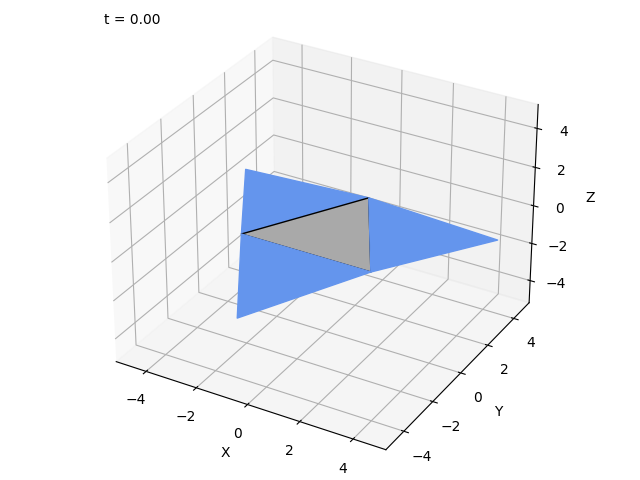
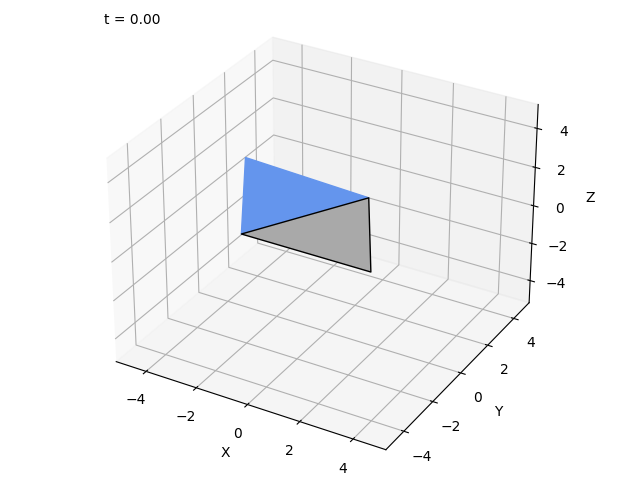
Fully working, angles fixed

Changed region(s): [[0.3438, 0.4062, 0.7812, 0.6562], [0.375, 0.3125, 0.5625, 0.4062]]

diff --git a/fourth/main.py b/fourth/main.py
@@ -38,20 +38,27 @@ def get_MOI_triangle(l, rho):
 
 
 def calc_torque(panel, force, bus):
-    force_z = mech.dot(force, bus.y) * sp.cos(get_angle(panel.frame, bus))
+
+    # If panel has gone beyond the direction of the bus, it's completely in the shadow.
+    if get_angle(panel.frame, bus) < - sp.pi /2:
+        force_z = 0
+    else:
+        #force_z = mech.dot(force, bus.y) * sp.cos(get_angle(panel.frame, bus)) ** 2
+        force_z = (sp.cos(get_angle(panel.frame, bus))*force.magnitude())
+    # If the light hits on the front of the panel, use state to determine a coefficient of reflection.
     if force_z > 0:
-        force_z = force_z * (1+panel.state)  # if the light hits on the front of the panel, use state to determine a coefficient of reflection.
+        force_z = force_z * (1+panel.state)  
     #force_z = mech.dot(force, panel.frame.y).evalf()
     torque_zz = - panel.dimensions[0]*3**(1/2)/6 * force_z
     panel.torque = 0*panel.frame.y + 0*panel.frame.x + torque_zz*panel.frame.z
     return force_z
 
 def main():
-    theta_zero = 30/180 * sp.pi#10/180 * sp.pi
+    theta_zero = 100/180 * sp.pi#10/180 * sp.pi
     bus = sun.orientnew("bus", "Axis", [angle_to_sun, sun.z])
     order = [bus]
 
-    # MANUAL GENERATION FOR TWO PANELS.
+    # MANUAL GENERATION FOR PANELS.
     
     panel_ors["1"] = Panel(
         dimensions=5,
@@ -59,11 +66,11 @@ def main():
         state = 0
         )
     order.append(panel_ors["1"].frame)
-    
+    '''
     panel_ors["2"] = Panel(
         dimensions=5,
         frame = bus.orientnew("panel"+str(2), "Axis", [theta_zero, bus.z]),
-        state = 0
+        state = 1
         )
     order.append(panel_ors["2"].frame)
 
@@ -73,7 +80,7 @@ def main():
         state = 0
         )
     order.append(panel_ors["3"].frame)
-
+    '''
     
     upd = 3.6**-1 # hertz
     t= 1/upd
@@ -85,7 +92,8 @@ def main():
         panel = panel_ors[panel]
         c = 0
         alpha = 0 *panel.frame.z
-        theta = sp.acos(mech.dot(panel.frame.x, bus.x).evalf()) * panel.frame.z
+        #theta = sp.acos(mech.dot(panel.frame.x, bus.x).evalf()) * panel.frame.z
+        theta = get_angle(panel.frame, bus) * panel.frame.z
         panel.y_axis_theta = []
         panel.y_axis_force = []
         panel.y_axis_moment_srp = []
@@ -98,7 +106,7 @@ def main():
         spring_trigger= 0
 
         while True:
-            f = panel.area * (1+panel.state)* calc_srp(bus_location, bus)
+            f = panel.area * (1+panel.state)* calc_srp(bus_location, bus) * sp.cos(get_angle(panel.frame, bus))
             angled_force = calc_torque(panel, f, bus)
 
             spring = get_spring_moment(panel.frame, bus)
@@ -126,17 +134,17 @@ def main():
                 panel.iterations = c
                 break
             
-            if c > 1 and threshold(np.mean(np.abs(np.diff(panel.y_axis_theta[-convergence_mean:]))), 0, thresh=0.0001):
+            if c > 25 and threshold(np.mean(np.abs(np.diff(panel.y_axis_theta[-convergence_mean:]))), 0, thresh=0.0001):
                 print("Solution found after "+str(c)+" iterations")
                 #print("Force: "+"%.3g" % (2*n*panel.y_axis_force[-1])+"N")
                 panel.iterations = c
                 break
-            
+            '''
             if abs(get_angle(panel.frame, bus)) > sp.pi.evalf()/2:
                 print("Exception ocurred: Panel rotated more than 90 degrees.")
                 print("Force: "+"%.3g" % (2*n*panel.y_axis_force[-1])+"N")
                 break
-    
+            '''
     # Print total pressure force felt.
     totalForce = 0
     for i in panel_ors:
@@ -237,8 +245,14 @@ def get_spring_moment(frame1, frame2, alpha=0):
     moment = -k * (theta - ref_spring_theta) * frame1.z
     return moment
 
-
 def get_angle(frame1, frame2):
+    angle = sp.acos(mech.dot(frame1.y, frame2.y)).evalf()
+    projection = frame1.y.express(frame2).args[0][0][0] // abs(frame1.y.express(frame2).args[0][0][0]) # If the y axis of the panel has a non-zero projection on the x-axis of the bus, it is at an angle. It falls -ve if CCW, it falls +ve if CW.
+    if projection > 0:
+        angle = -angle
+    return angle
+
+def get_angle_old(frame1, frame2):
     angle = sp.asin(mech.dot(frame1.y.express(frame2), frame2.x).evalf())
     sector = mech.dot(frame1.x, frame2.x).evalf()
     sign = sector / abs(sector)
@@ -283,11 +297,11 @@ def draw_scene(panel_ors, sat):
         tria = np.zeros((3,3))
         h = 3**(1/2)/2 * l
 
-        z_height = math.sin(alpha) * h  # Height of the piece's ends above XY plane.
+        z_height = -math.sin(alpha) * h  # Height of the piece's ends above XY plane.
         h_xy = math.cos(alpha) * h
 
         tria[0] = [0, 3**(1/2)/3 * l, 0]
-        tria[1] = [-math.cos(1/6 * math.pi)* h_xy + -1/4 * l,
+        tria[1] = [(-math.cos(1/6 * math.pi)* h_xy - 1/4 * l),
                     math.sin(1/6 * math.pi) * h_xy + 3**(1/2)/12 * l,
                     z_height]
         tria[2] = [-l/2, - 3**(1/2)/3 * 0.5 * l, 0]
@@ -320,12 +334,12 @@ def draw_scene(panel_ors, sat):
         timeElapsed = "{:.2f}".format(panel_ors["1"].x_axis[num]).zfill(timeStampLen)
         timeLabel.set_text("t = "+timeElapsed+" seconds")
         frameRef = animation_id+"_"+str(str(num).zfill(4))
-        print("frame ref is "+frameRef)
         fname = "fourth\\frames\\"+frameRef+".png"
+        '''
         if not os.path.isfile(fname):
             print("Saving file "+fname)
             fig.savefig(fname)
-
+        '''
         
     # Attaching 3D axis to the figure
     fig = plt.figure()
